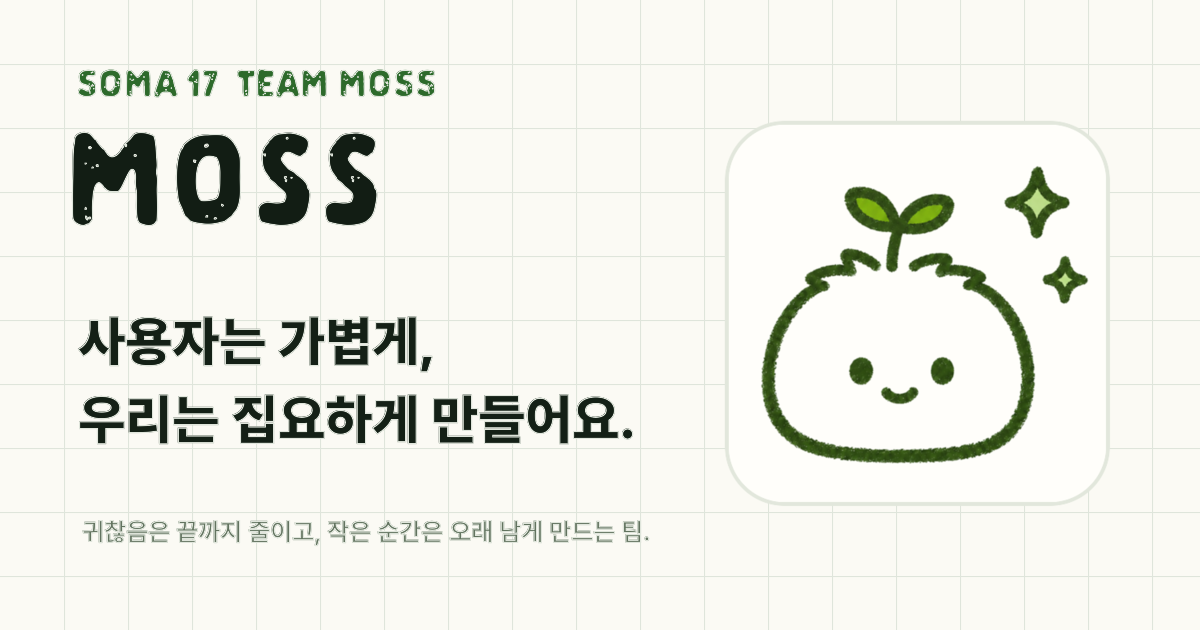
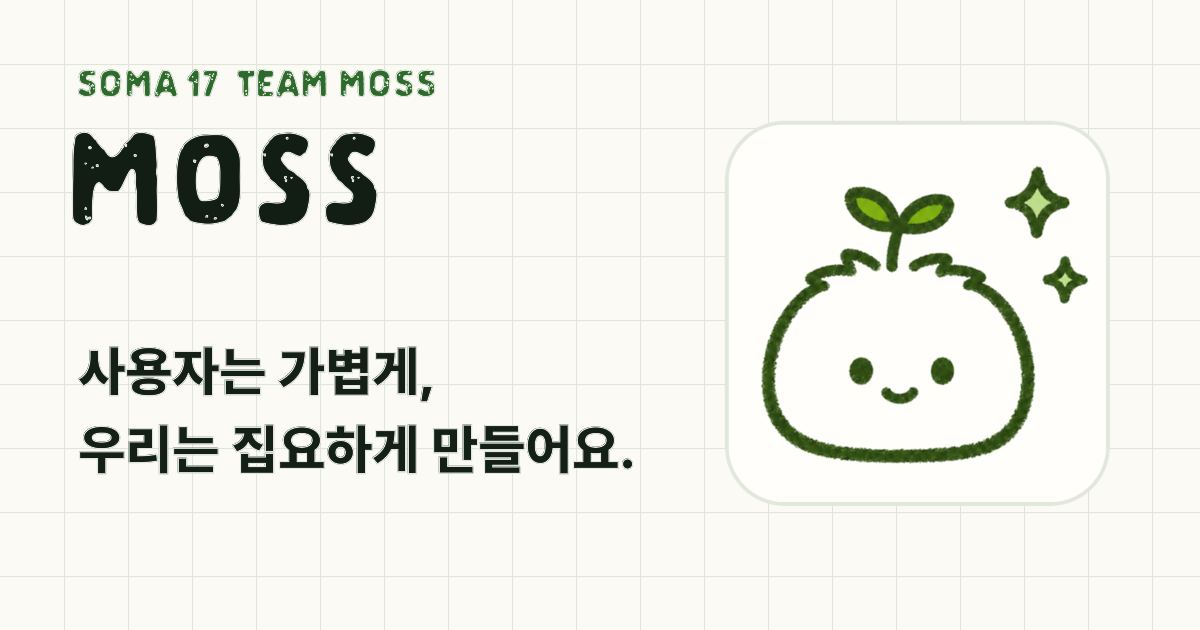
Remove hero tagline

Changed region(s): [[0.0617, 0.4825, 0.5242, 0.754], [0.0617, 0.8143, 0.555, 0.8746]]

diff --git a/src/widgets/landing/moss-landing.tsx b/src/widgets/landing/moss-landing.tsx
@@ -64,10 +64,7 @@ export function MossLandingPage() {
             <h1 className="moss-display text-8xl leading-none sm:text-9xl lg:text-[10rem]">
               Moss
             </h1>
-            <p className="mt-7 max-w-xl text-xl font-medium leading-9 text-[var(--muted-ink)] sm:text-2xl sm:leading-10">
-              귀찮음은 끝까지 줄이고, 작은 순간은 오래 남게 만드는 팀이에요.
-            </p>
-            <div className="mt-10 flex flex-col gap-3 sm:flex-row">
+            <div className="mt-8 flex flex-col gap-3 sm:flex-row">
               <Button
                 asChild
                 size="lg"